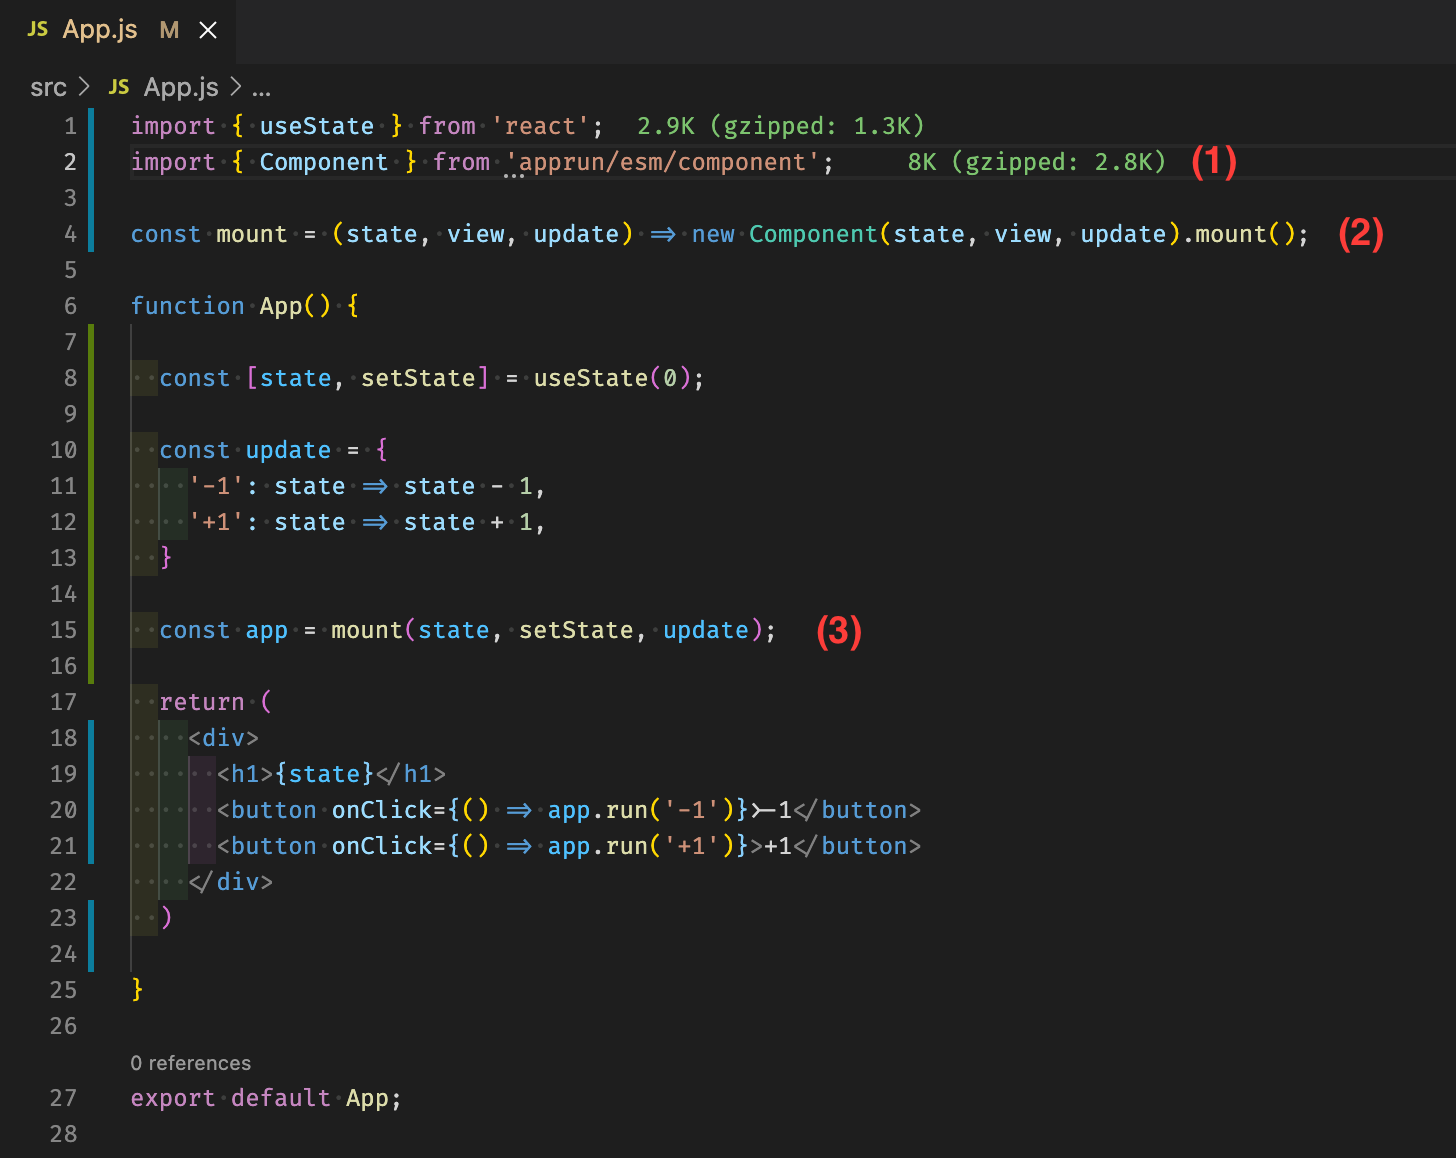
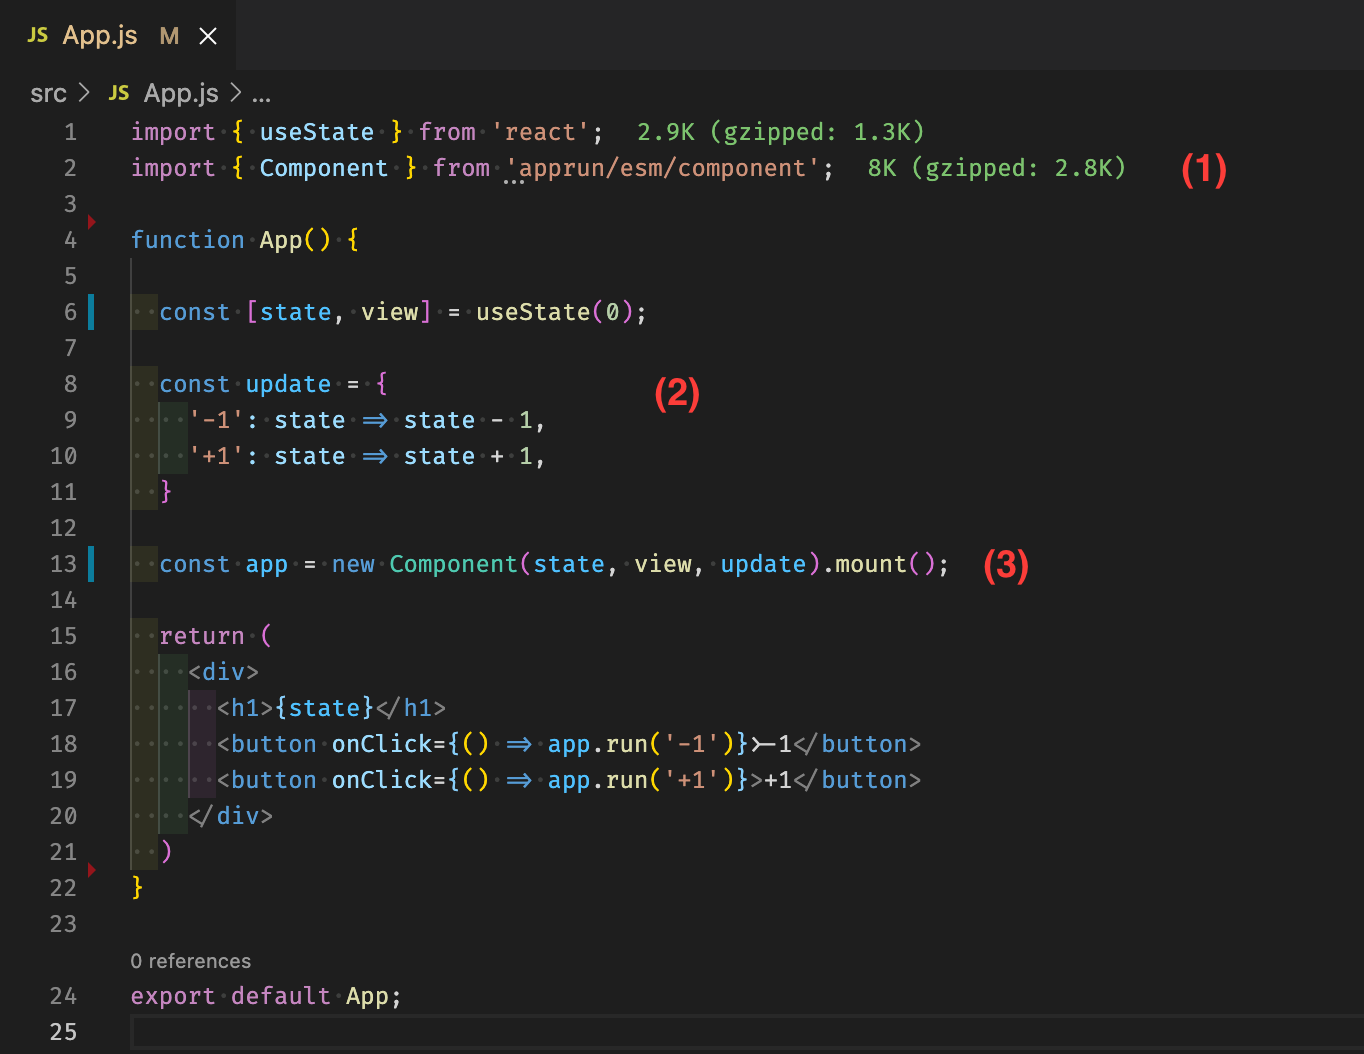
it can be simplified

diff --git a/src/App.js b/src/App.js
@@ -1,18 +1,16 @@
 import { useState } from 'react';
 import { Component } from 'apprun/esm/component';
 
-const mount = (state, view, update) => new Component(state, view, update).mount();
-
 function App() {
 
-  const [state, setState] = useState(0);
+  const [state, view] = useState(0);
 
   const update = {
     '-1': state => state - 1,
     '+1': state => state + 1,
   }
 
-  const app = mount(state, setState, update);
+  const app = new Component(state, view, update).mount();
 
   return (
     <div>
@@ -21,7 +19,6 @@ function App() {
       <button onClick={() => app.run('+1')}>+1</button>
     </div>
   )
-
 }
 
 export default App;
